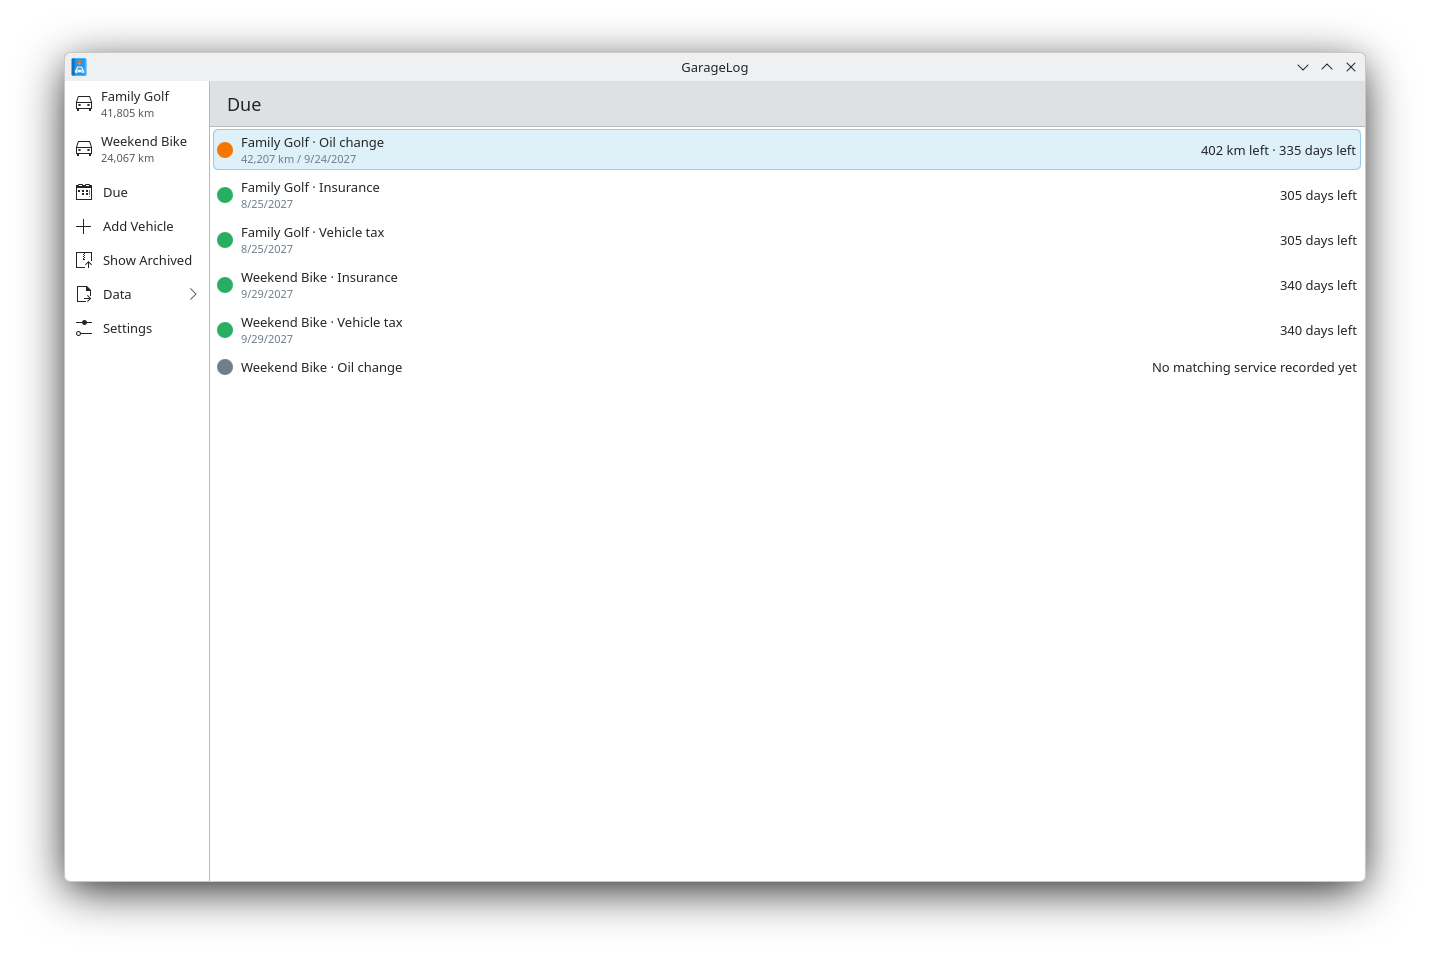
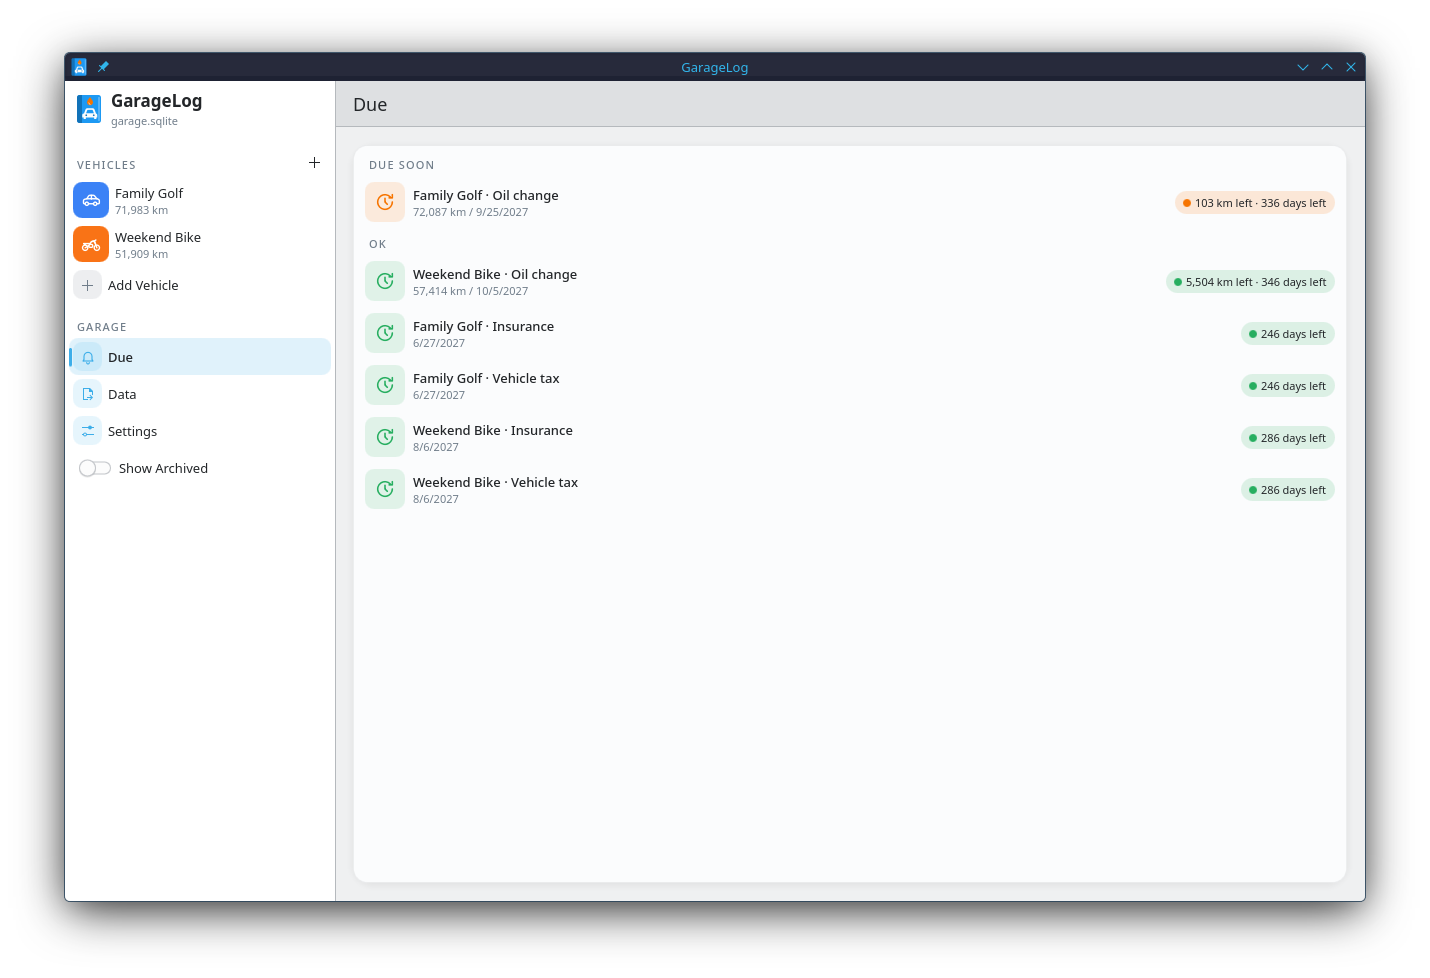
docs: show the new look in screenshots and spec
Replaces the README screenshots with captures of the redesigned
window (Breeze frame, English UI, demo garage) and notes in the spec
that vehicle types use GarageLog's own line icons and the vehicle
page a pill switch instead of tabs (ADR-015). The AppStream metainfo
still points at the v1.0.1 screenshots until the next release.

Changed region(s): [[0.0308, 0.0303, 0.9538, 0.5449], [0.0615, 0.9081, 0.9231, 0.9384]]

diff --git a/docs/SPEC.md b/docs/SPEC.md
@@ -18,7 +18,7 @@ Privatpersonen mit 1–5 Fahrzeugen (Auto, Motorrad, Roller, E-Fahrzeug, Oldtime
 ### 4.1 Fahrzeuge
 - Anlegen/Bearbeiten/Archivieren (nicht löschen, solange Einträge existieren)
 - Felder: Name, Typ (Auto, Motorrad, Roller, E-Bike, Sonstiges), Marke, Modell, Baujahr, Kennzeichen, Antrieb (Benzin, Diesel, Elektro, Hybrid, Sonstiges), Tachostand aktuell (abgeleitet aus letztem Eintrag, manuell korrigierbar), Notiz
-- Pro Fahrzeug ein Icon nach Typ (Breeze-Icons)
+- Pro Fahrzeug ein Icon nach Typ (eigene Linien-Icons, ADR-015)
 
 ### 4.2 Tank-/Ladeeinträge
 - Felder: Datum, Tachostand, Menge (l oder kWh je nach Antrieb), Gesamtpreis, Preis/Einheit (eines von beiden eingeben, das andere wird berechnet), Volltank ja/nein, Tankstelle (Freitext, Autovervollständigung aus bisherigen), Notiz
@@ -54,7 +54,7 @@ ApplicationWindow
 ├─ GlobalDrawer: Fahrzeugliste (+ „Alle fällig", Einstellungen, Über)
 └─ PageRow
    ├─ VehiclePage(vehicleId)   – Kopf: Name, Tacho, nächste Fälligkeit
-   │   └─ Tabs: Tanken | Service | Intervalle | Auswertung
+   │   └─ Pill-Umschalter (ADR-015): Tanken | Service | Intervalle | Auswertung
    ├─ DuePage                  – alle fälligen Intervalle
    └─ SettingsPage             – Einheiten (km/mi, l/gal), Währung, Garage-Datei
 Formulare als Kirigami.OverlaySheet oder eigene Seite (Entscheidung in DECISIONS.md)
